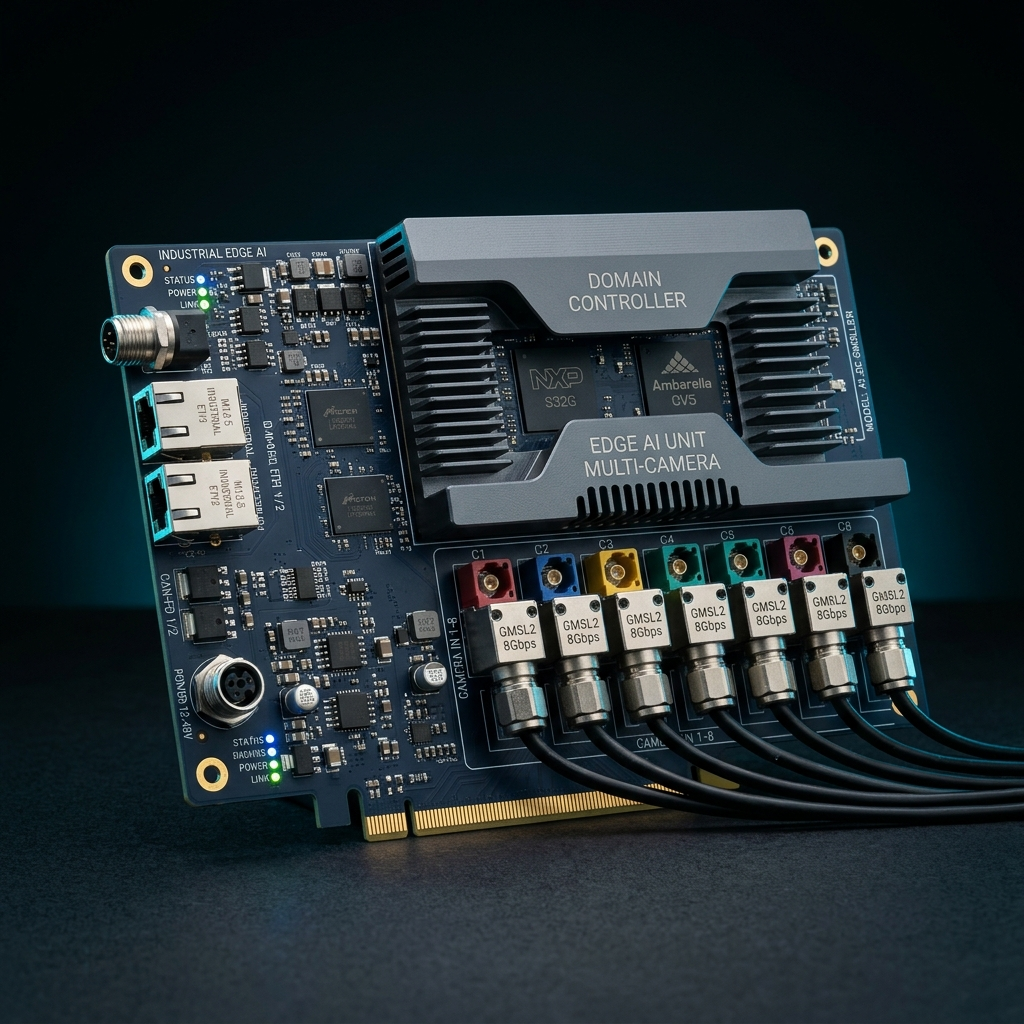
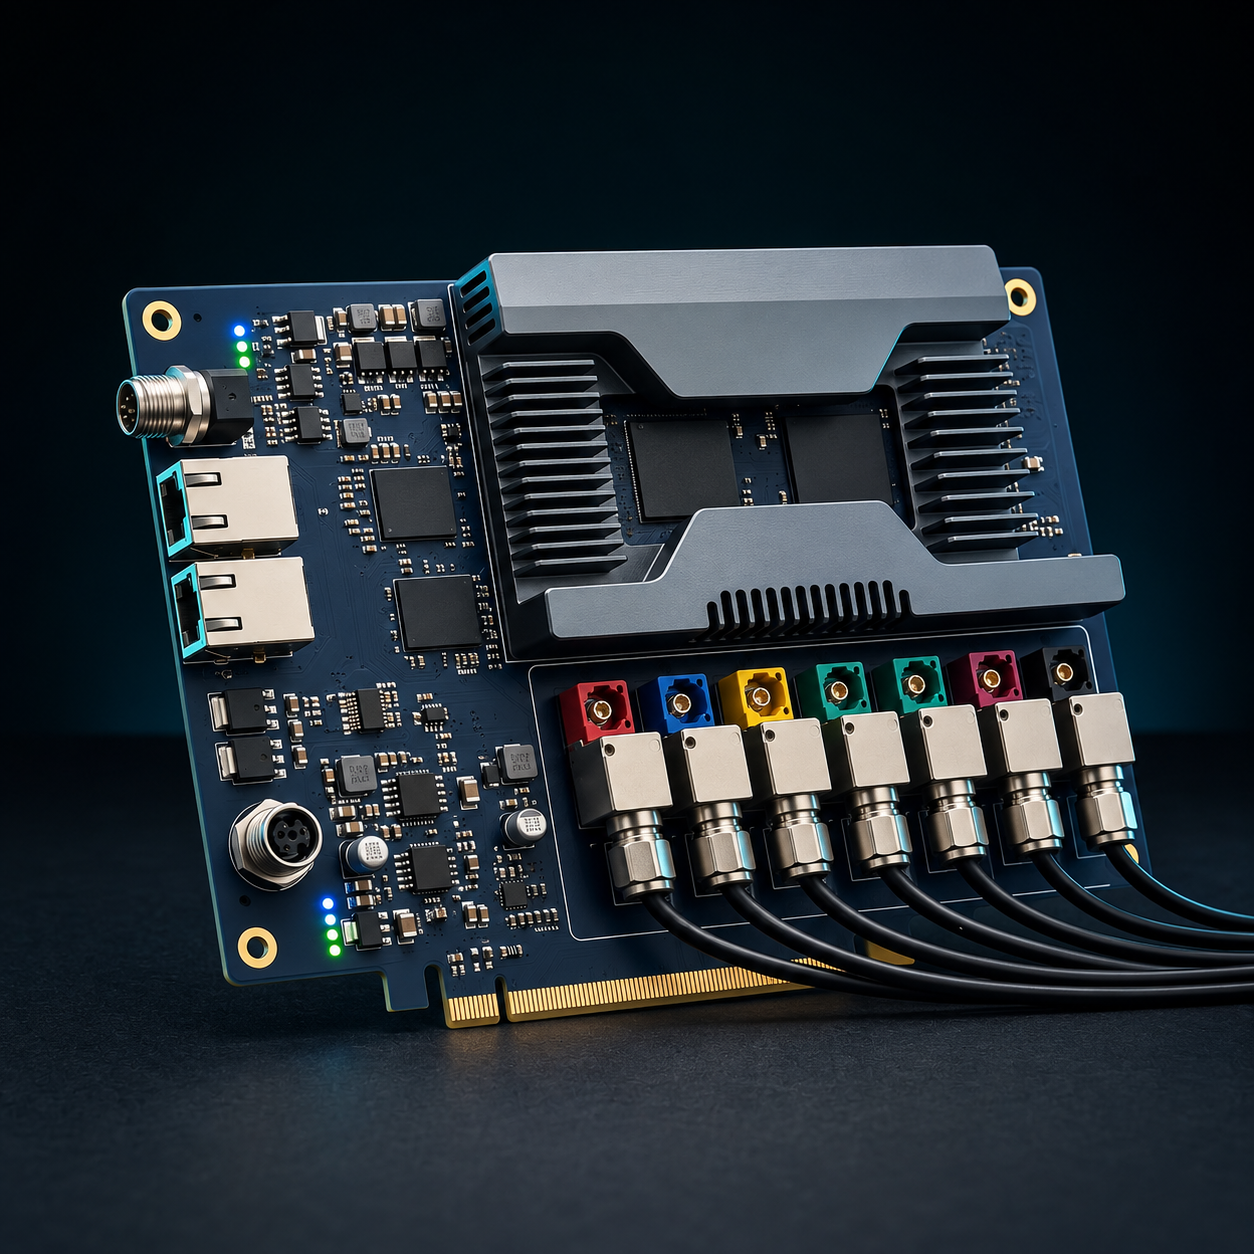
feat: set vdc-solution-hd image for Intelligent Solutions slide

Changed region(s): [[0.0938, 0.1875, 1.0, 0.8438], [0.25, 0.8125, 0.2812, 0.8438]]

diff --git a/src/components/hero/Hero.jsx b/src/components/hero/Hero.jsx
@@ -30,8 +30,8 @@ export const heroSlides = [
     description: 'We combine embedded hardware and software to develop integrated solutions for transportation, surveillance, industrial automation, and intelligent vision applications.',
     ctaText: 'Explore Solutions',
     ctaHref: '#integrated-solutions',
-    image: '/images/integrated-solution-hd.jpg',
-    fallbackImage: '/images/vdc-solution-hd.jpg',
+    image: '/images/vdc-solution-hd.png',
+    fallbackImage: '/images/vdc-solution-hd.png',
     alt: 'AIEGX Integrated Vision & Controller Solution'
   },
   {
